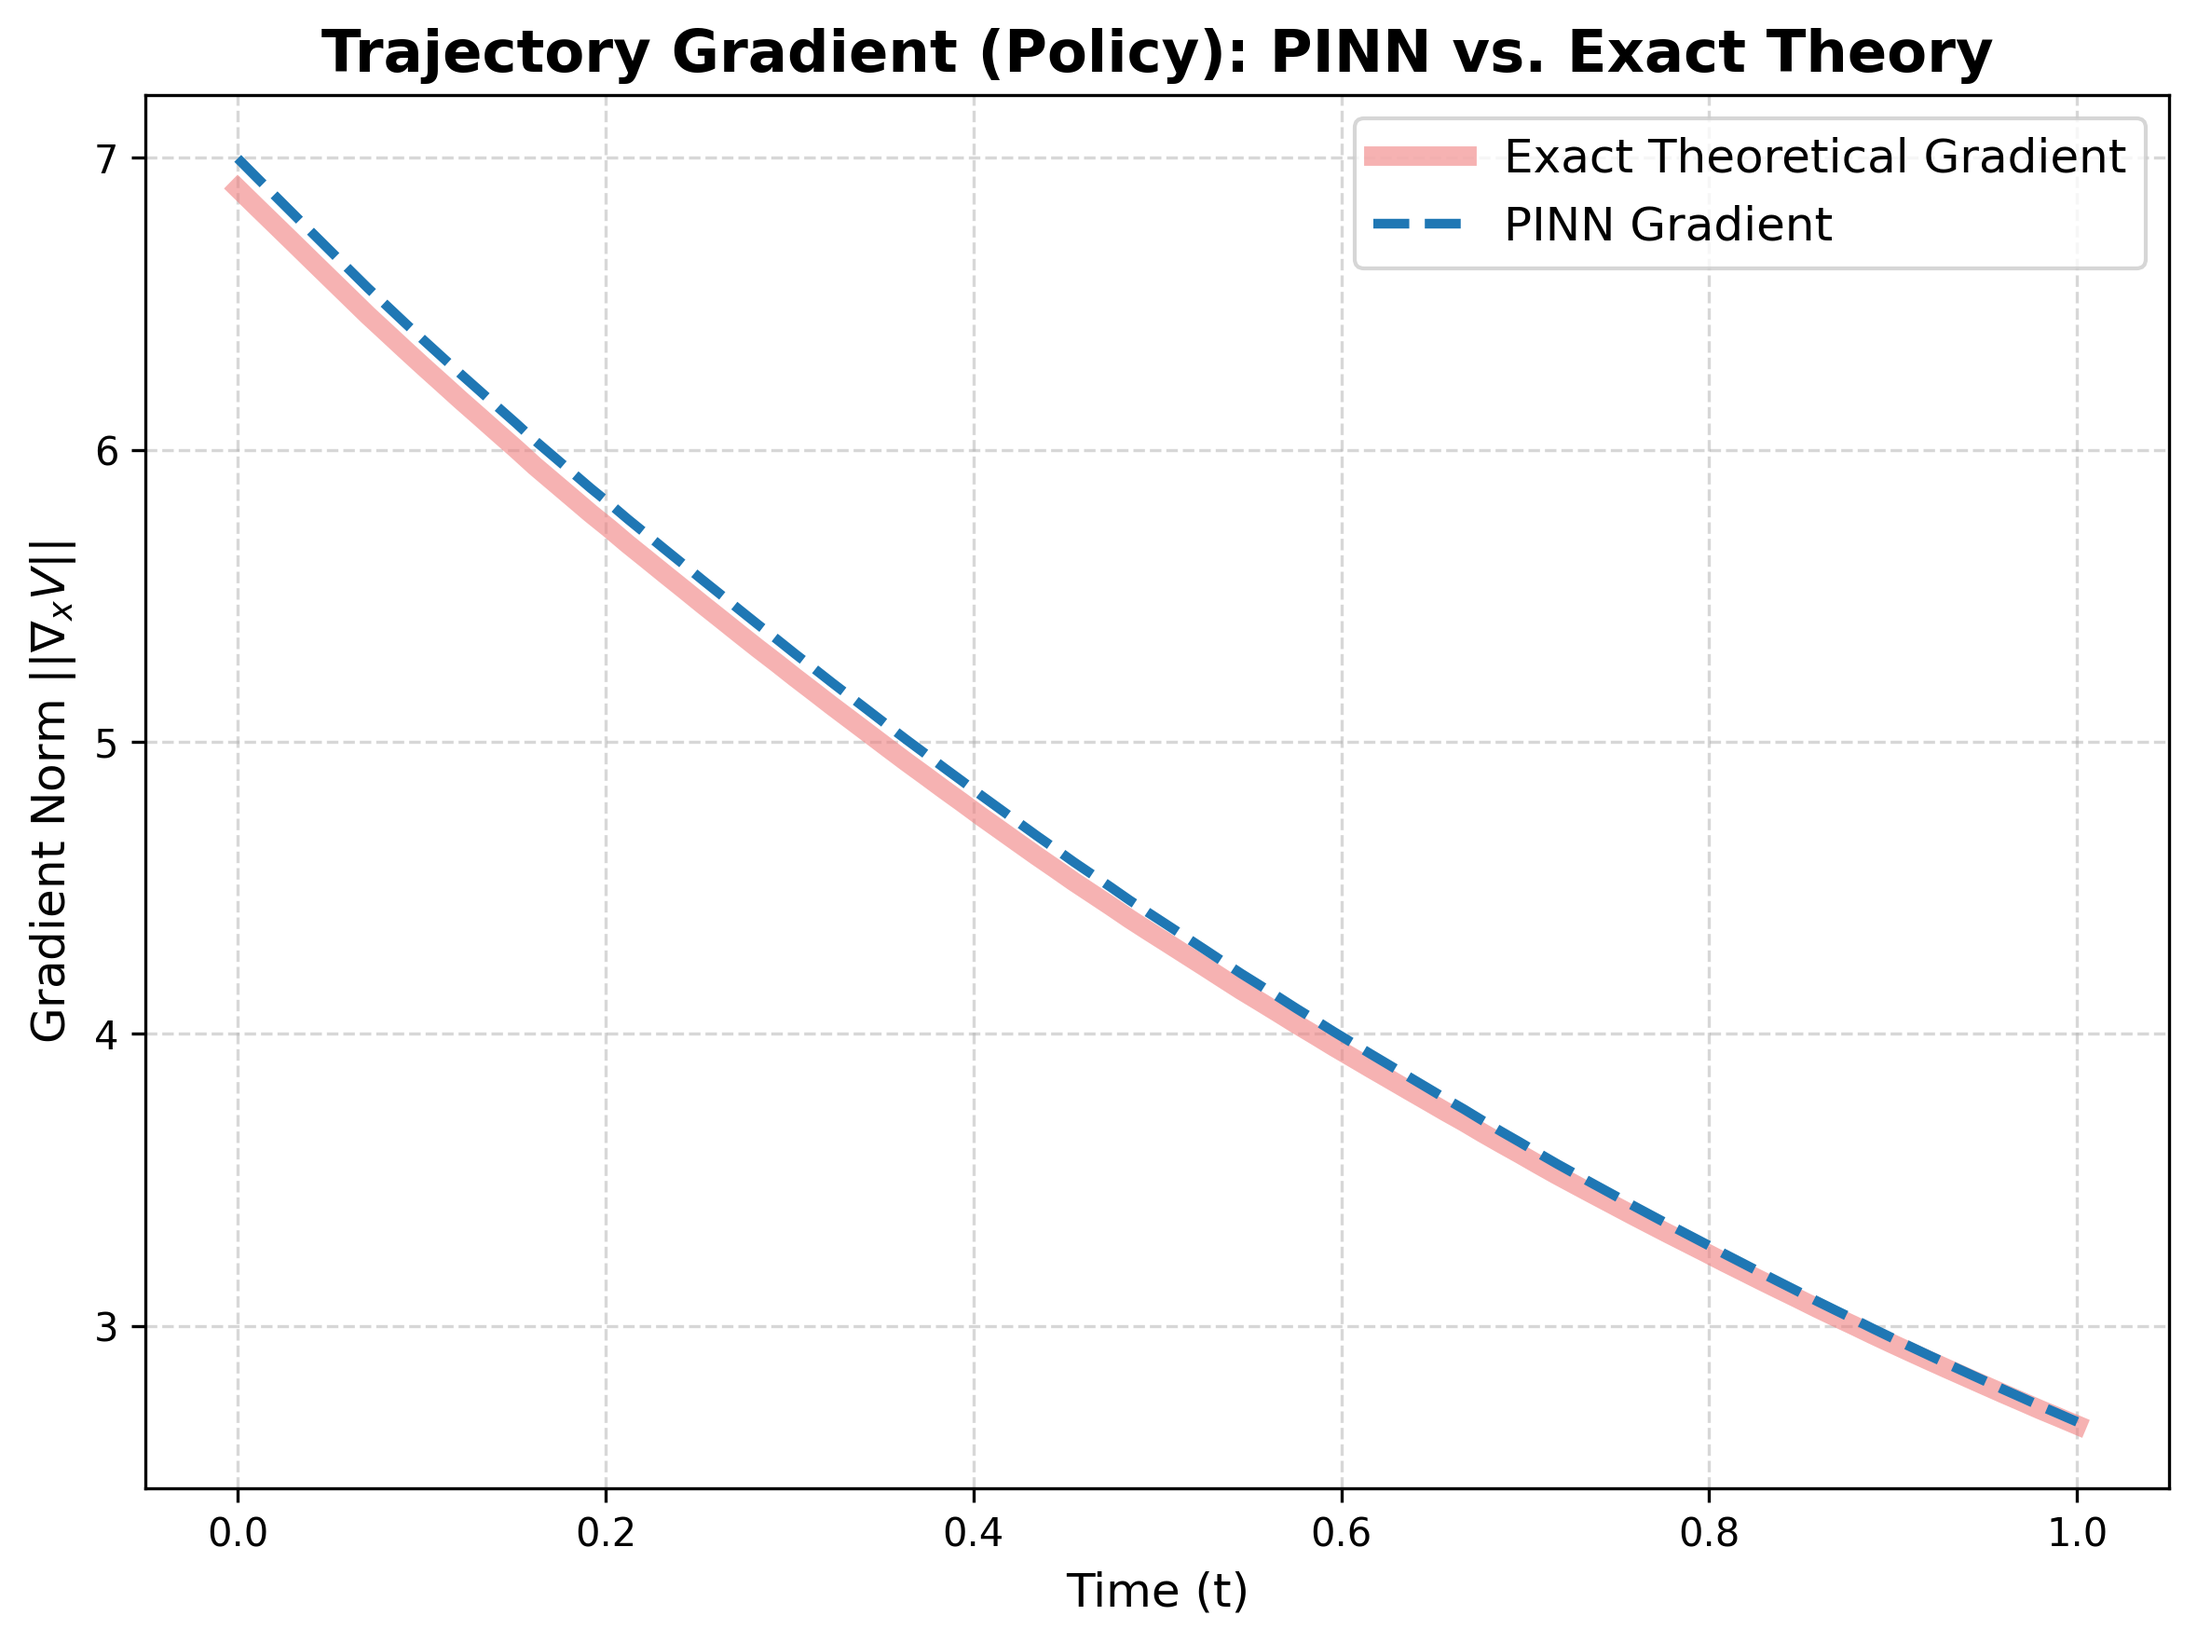
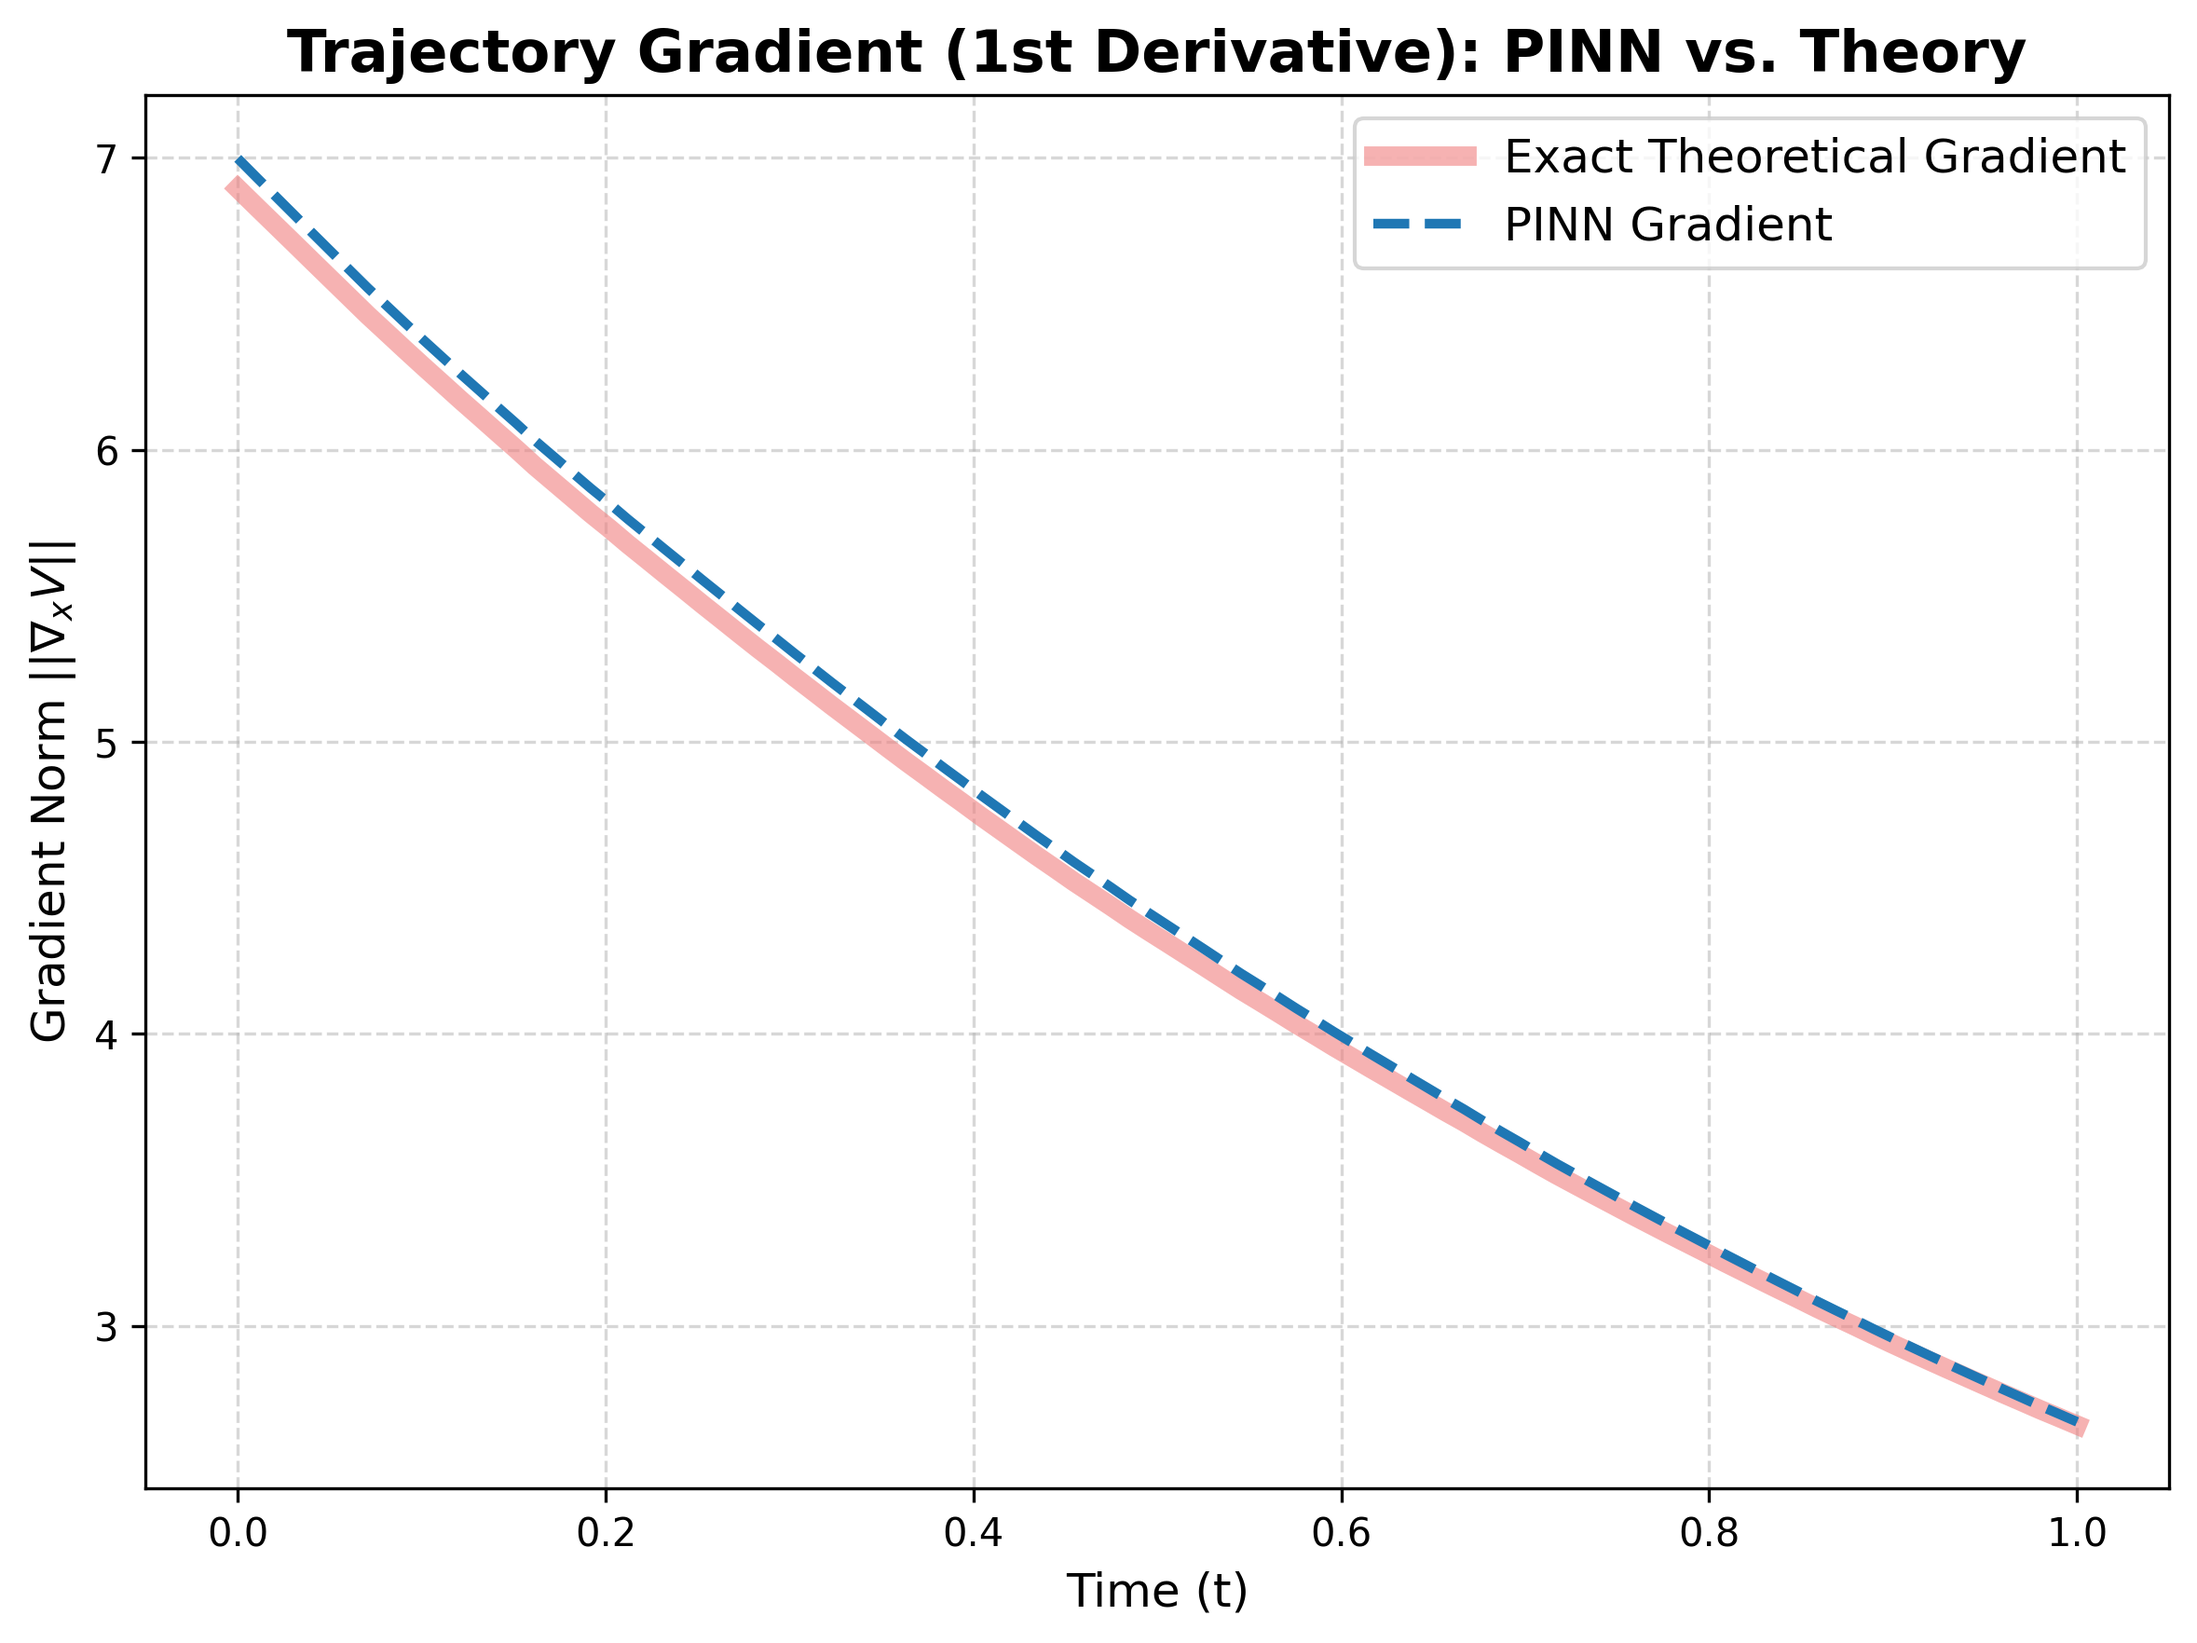
add hessian plot

Changed region(s): [[0.1238, 0.0, 0.9288, 0.0624]]

diff --git a/scripts/run_exp2_hjb_nn.py b/scripts/run_exp2_hjb_nn.py
@@ -8,7 +8,8 @@ import matplotlib.pyplot as plt
 sys.path.append(os.path.abspath(os.path.join(os.path.dirname(__file__), '..')))
 from soc.lqr import solve_dre
 from soc.models import BenchmarkConfig
-from soc.potential import ValueNetwork
+# Added compute_partials from your existing potential.py module!
+from soc.potential import ValueNetwork, compute_partials 
 from soc.optimize import train_potential_network
 from soc.simulate import simulate_nn_policy_euler_maruyama
 
@@ -71,45 +72,53 @@ def main():
 
     V_nn_trajectory = np.zeros(cfg.N)
     V_true_trajectory = np.zeros(cfg.N)
+    
     grad_nn_trajectory = np.zeros(cfg.N)
     grad_true_trajectory = np.zeros(cfg.N)
+    
+    hessian_nn_trajectory = np.zeros(cfg.N)
+    hessian_true_trajectory = np.zeros(cfg.N)
     
     state_dim = cfg.state_dim 
     
     for i in range(cfg.N):
-        # 1. Cleanly extract states and force shape to (batch_size, state_dim)
-        # We detach and require_grad to compute autograd over the simulation states
+        # 1. Cleanly extract states 
         X_tensor = X_nn[i].view(-1, state_dim).detach()
-        X_tensor.requires_grad_(True)
-        X_t = X_tensor.detach().cpu().numpy() 
-        actual_batch = X_t.shape[0] # Handle any batch size dynamically
+        X_t = X_tensor.cpu().numpy() 
+        actual_batch = X_t.shape[0] 
         
-        # 2. Exact Cost and Gradient along X_t
-        # Cost Batch
+        # --- 2. EXACT COST, GRADIENT, AND HESSIAN ---
+        # Value (Cost)
         cost_batch = np.sum((X_t @ P_exact[i]) * X_t, axis=1) + noise_penalty[i]
         V_true_trajectory[i] = cost_batch.mean()
         
-        # Gradient Batch
+        # 1st Derivative (Gradient = 2Px)
         grad_true_batch = 2.0 * (X_t @ P_exact[i])
         grad_true_norm_batch = np.linalg.norm(grad_true_batch, axis=1)
         grad_true_trajectory[i] = grad_true_norm_batch.mean()
         
-        # 3. NN Cost and Gradient along X_t
-        t_tensor = torch.full((actual_batch, 1), t_grid[i], dtype=torch.float32, device=cfg.device)
-        V_nn_batch = u_theta(t_tensor, X_tensor)
+        # 2nd Derivative (Hessian = 2P, constant for all x)
+        hessian_true_matrix = 2.0 * P_exact[i]
+        hessian_true_trajectory[i] = np.linalg.norm(hessian_true_matrix) # Frobenius norm
+        
+        # --- 3. NN COST, GRADIENT, AND HESSIAN ---
+        # Prepare inputs to match compute_partials expected shape (batch, state_dim, 1)
+        X_tensor_3d = X_tensor.unsqueeze(-1).clone().detach().requires_grad_(True)
+        t_tensor = torch.full((actual_batch, 1), t_grid[i], dtype=torch.float32, device=cfg.device).requires_grad_(True)
+        
+        # Using YOUR compute_partials function to get everything at once!
+        V_nn_batch, _, grad_nn_batch, hessian_nn_batch = compute_partials(u_theta, t_tensor, X_tensor_3d)
+        
+        # Store Value
         V_nn_trajectory[i] = V_nn_batch.mean().item()
         
-        # Autograd for the batch
-        grad_nn_batch = torch.autograd.grad(
-            outputs=V_nn_batch, 
-            inputs=X_tensor,
-            grad_outputs=torch.ones_like(V_nn_batch),
-            create_graph=False
-        )[0]
-        
-        # Gradient norm across the batch
-        grad_nn_norm_batch = torch.norm(grad_nn_batch, dim=1)
+        # Store Gradient Norm
+        grad_nn_norm_batch = torch.norm(grad_nn_batch.view(actual_batch, -1), dim=1)
         grad_nn_trajectory[i] = grad_nn_norm_batch.mean().item()
+        
+        # Store Hessian Norm (Frobenius norm over the state_dim x state_dim matrices)
+        hessian_nn_norm_batch = torch.sqrt(torch.sum(hessian_nn_batch**2, dim=(1, 2)))
+        hessian_nn_trajectory[i] = hessian_nn_norm_batch.mean().item()
 
     # ---------------------------------------------------------
     # C. GENERATE COMPARISON PLOTS
@@ -137,17 +146,33 @@ def main():
              label='Exact Theoretical Gradient')
     plt.plot(t_grid, grad_nn_trajectory, color='#1f77b4', linewidth=2.5, linestyle='--', 
              label='PINN Gradient')
-    plt.title("Trajectory Gradient (Policy): PINN vs. Exact Theory", fontsize=15, fontweight='bold')
+    plt.title("Trajectory Gradient (1st Derivative): PINN vs. Theory", fontsize=15, fontweight='bold')
     plt.xlabel("Time (t)", fontsize=12)
     plt.ylabel(r"Gradient Norm $|| \nabla_x V ||$", fontsize=12)
     plt.grid(True, ls="--", alpha=0.5)
     plt.legend(fontsize=12)
     plt.tight_layout()
-    save_path_grad_trajectory = "figures/exp2_trajectory_gradient_comparison.png"
-    plt.savefig(save_path_grad_trajectory, dpi=300, bbox_inches='tight')
-    print(f"Success! Trajectory gradient comparison plot saved to: {save_path_grad_trajectory}")
+    save_path_grad = "figures/exp2_trajectory_gradient_comparison.png"
+    plt.savefig(save_path_grad, dpi=300, bbox_inches='tight')
+    print(f"Success! Trajectory gradient comparison plot saved to: {save_path_grad}")
+
+    # PLOT 3: TRAJECTORY HESSIAN (2ND DERIVATIVE) COMPARISON
+    plt.figure(3, figsize=(8, 6))
+    plt.plot(t_grid, hessian_true_trajectory, color='mediumseagreen', linewidth=5, alpha=0.6, 
+             label='Exact Theoretical Hessian')
+    plt.plot(t_grid, hessian_nn_trajectory, color='darkorange', linewidth=2.5, linestyle='--', 
+             label='PINN Hessian')
+    plt.title("Trajectory Hessian (2nd Derivative): PINN vs. Theory", fontsize=15, fontweight='bold')
+    plt.xlabel("Time (t)", fontsize=12)
+    plt.ylabel(r"Hessian Norm $|| \nabla^2_{xx} V ||_F$", fontsize=12)
+    plt.grid(True, ls="--", alpha=0.5)
+    plt.legend(fontsize=12)
+    plt.tight_layout()
+    save_path_hessian = "figures/exp2_trajectory_hessian_comparison.png"
+    plt.savefig(save_path_hessian, dpi=300, bbox_inches='tight')
+    print(f"Success! Trajectory Hessian comparison plot saved to: {save_path_hessian}")
     
-    # Show both plots at the end!
+    # Show all three plots at the end!
     plt.show()
 
 if __name__ == "__main__":
